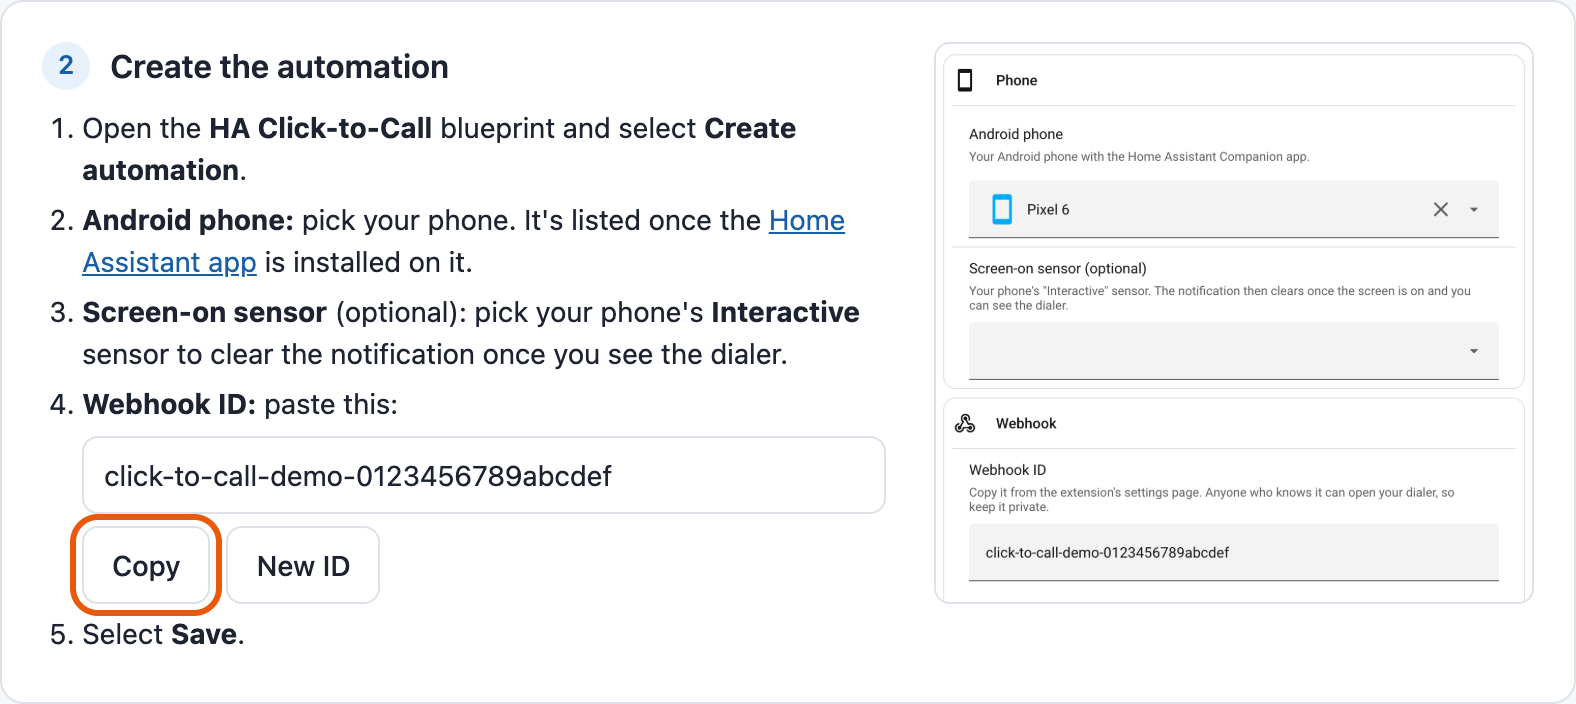
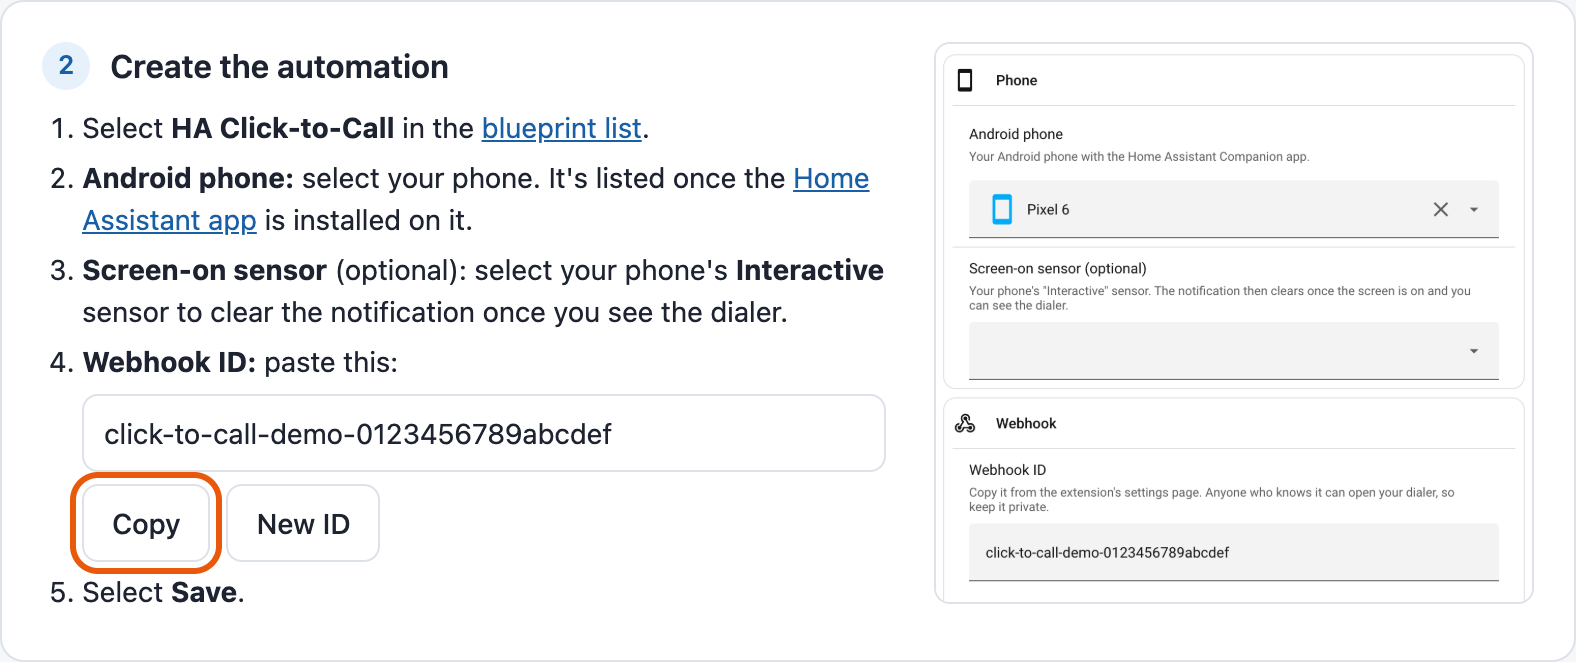
Step 2: start from the blueprint list; say select, not pick

diff --git a/extension/options.html b/extension/options.html
@@ -89,11 +89,12 @@
     <div>
       <h2><span class="num">2</span>Create the automation</h2>
       <ol>
-        <li>Open the <b>HA Click-to-Call</b> blueprint and select <b>Create automation</b>.</li>
-        <li><b>Android phone:</b> pick your phone. It's listed once the
+        <li>Select <b>HA Click-to-Call</b> in the
+          <a href="https://my.home-assistant.io/redirect/blueprints/" target="_blank" rel="noopener">blueprint list</a>.</li>
+        <li><b>Android phone:</b> select your phone. It's listed once the
           <a href="https://companion.home-assistant.io/docs/getting_started/" target="_blank" rel="noopener">Home Assistant app</a>
           is installed on it.</li>
-        <li><b>Screen-on sensor</b> (optional): pick your phone's <b>Interactive</b> sensor to clear the notification once you see the dialer.</li>
+        <li><b>Screen-on sensor</b> (optional): select your phone's <b>Interactive</b> sensor to clear the notification once you see the dialer.</li>
         <li><b>Webhook ID:</b> paste this:
           <input id="webhookId" type="text" class="mono" spellcheck="false" aria-label="Webhook ID" style="margin-top:6px">
           <div class="actions" style="margin-top:6px">

diff --git a/README.md b/README.md
@@ -22,8 +22,9 @@ The extension will walk you through four steps, shown below:
 
 [![Open your Home Assistant instance and show the blueprint import dialog with this blueprint pre-filled.](https://my.home-assistant.io/badges/blueprint_import.svg)](https://my.home-assistant.io/redirect/blueprint_import/?blueprint_url=https%3A%2F%2Fgithub.com%2Fdk1%2Fha-click-to-call%2Fblob%2Fmain%2Fblueprints%2Fha_click_to_call.yaml)
 
-**2. Create the automation.** Open the blueprint, select **Create automation**, select your phone and paste the
-webhook ID from the extension's settings.
+**2. Create the automation.** Select **HA Click-to-Call** in the
+[blueprint list](https://my.home-assistant.io/redirect/blueprints/), select your phone and paste the webhook ID
+from the extension's settings.
 
 <img src="docs/screenshots/settings-step2.png" width="640" alt="Step 2 in the extension's settings, with the webhook ID and a Copy button.">
 
